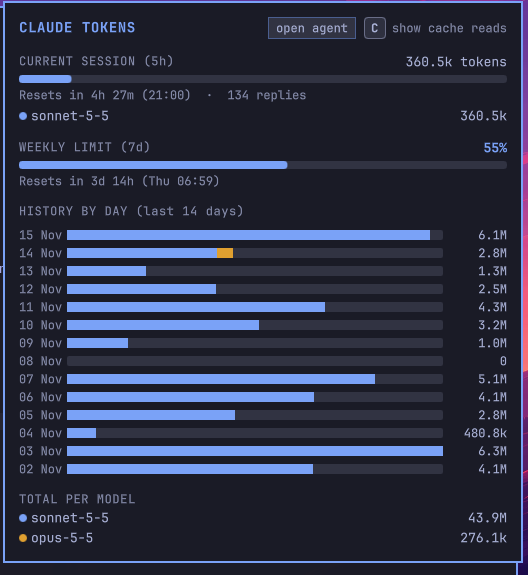
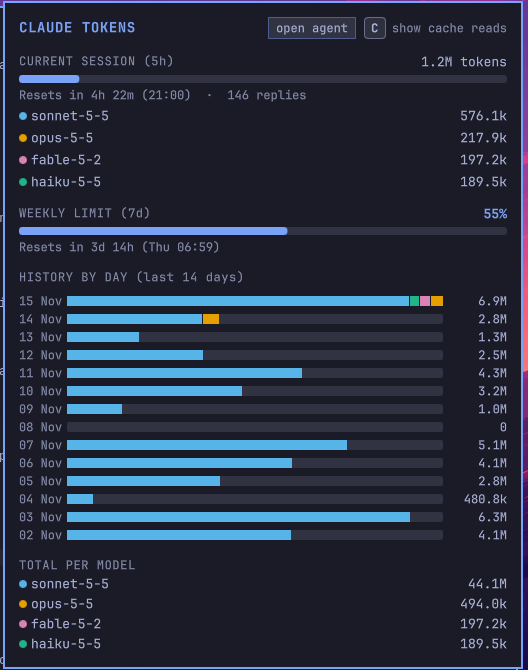
Distinct colour per model family (colour-blind safe) and thin segment separators
Sonnet, Opus, Haiku and Fable now each have a fixed colour with at least
6:1 contrast on dark backgrounds, instead of cycling a generic palette.

diff --git a/Panel.qml b/Panel.qml
@@ -27,7 +27,15 @@ Panel {
   readonly property string family: bar ? bar.fontFamily : Style.font.family
   readonly property string collectorPath: decodeURIComponent(
     String(Qt.resolvedUrl("claude-usage-collect")).replace("file://", ""))
-  readonly property var palette: [accent, "#e0a030", "#5fb0d8", "#b07ad8", "#6fc47a", "#d86f6f"]
+  // Fixed colour per model family (Okabe-Ito based, colour-blind safe, all
+  // >= 6:1 on dark backgrounds) so a model keeps its colour across days.
+  readonly property var familyColors: ({
+    "sonnet": "#56b4e9",
+    "opus": "#e69f00",
+    "haiku": "#1fb589",
+    "fable": "#d983b6"
+  })
+  readonly property var extraColors: ["#f0e442", "#9aa0b4"]
 
   // [input, output, cacheRead, cacheCreate] -> tokens counted
   function total(t) { return t[0] + t[1] + t[3] + (withCache ? t[2] : 0) }
@@ -72,9 +80,18 @@ Panel {
   }
 
   function colorFor(model) {
-    var i = modelList.indexOf(model)
-    return palette[(i < 0 ? 0 : i) % palette.length]
+    var name = String(model).toLowerCase()
+    for (var family in familyColors)
+      if (name.indexOf(family) >= 0) return familyColors[family]
+    var others = modelList.filter(function(m) {
+      var n = String(m).toLowerCase()
+      for (var f in familyColors) if (n.indexOf(f) >= 0) return false
+      return true
+    })
+    var i = others.indexOf(model)
+    return extraColors[Math.min(i < 0 ? 0 : i, extraColors.length - 1)]
   }
+
 
   function countdown(sec) {
     sec = Math.max(0, Math.floor(sec))
@@ -399,6 +416,14 @@ Panel {
                       width: root.sumModels(models) > 0
                         ? parent.width * root.total(models[modelData]) / root.sumModels(models) : 0
                       color: root.colorFor(modelData)
+                      // 1px gap so neighbouring segments don't blur together.
+                      Rectangle {
+                        anchors.right: parent.right
+                        width: 1
+                        height: parent.height
+                        color: Color.popups.background
+                        visible: index < Object.keys(models).length - 1 && parent.width > 2
+                      }
                     }
                   }
                 }
